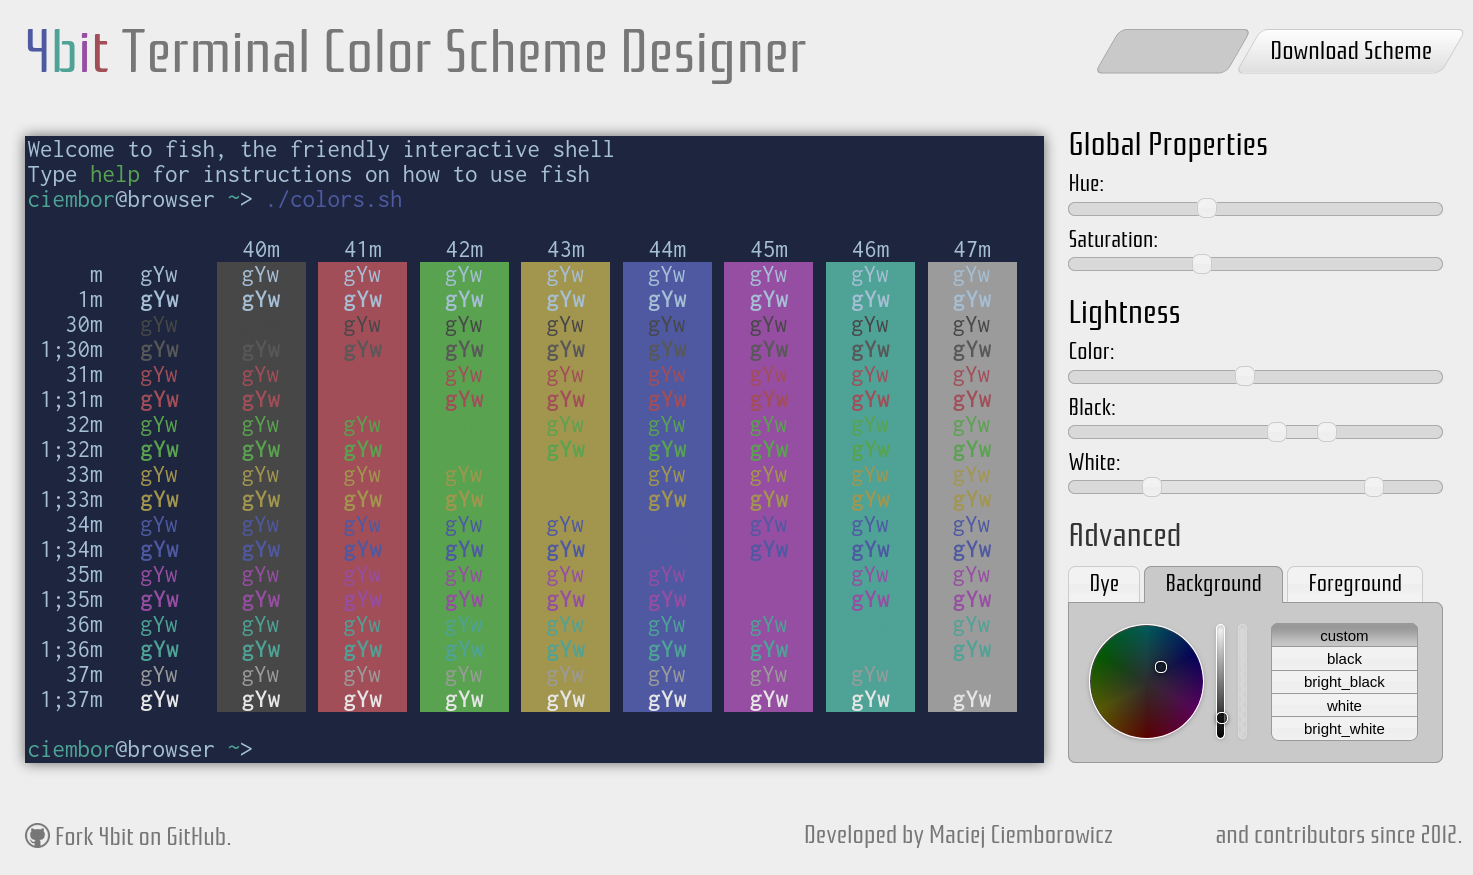
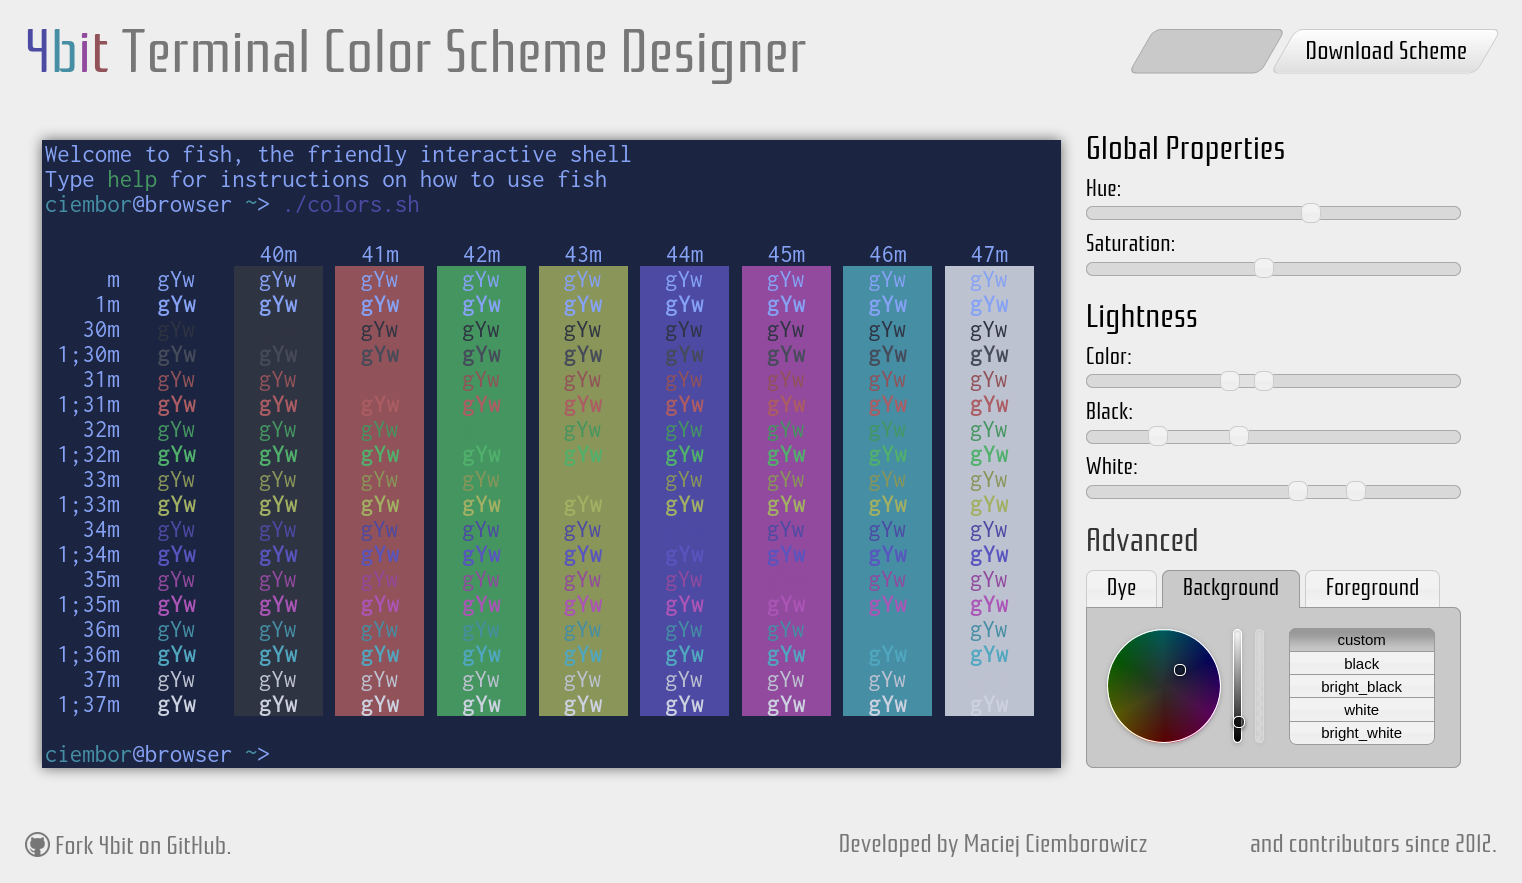
Update the vim/terminal colors post

diff --git a/content/post/same_colors_in_terminal_and_vim/index.md b/content/post/same_colors_in_terminal_and_vim/index.md
@@ -5,15 +5,16 @@ aliases = ['choosing_terminal_colors']
 tags = ["terminal", "vim", "color"]
 description = "How I chose readable colors for the terminal and configured Vim to use them."
 toc = true
+last_updated = "2024-02-12"
 +++
 
-In short, I've settled on a dark 4-bit terminal palette that is readable for the default and black background colors and use other techniques to workaround unreadable foreground/background combinations, which are mostly when two relatively light colors are put together. I do `:set t_Co=16` in my vimrc so `colortemplate`-based themes use the terminal palette instead of the absolute 8-bit color model, and use autocommands to modify Vim highlight groups that colorthemes often set to an unreadable combination of my colors.
+In short, I've settled on a dark 4-bit terminal palette that is readable for the default and black background colors and use other techniques to workaround unreadable foreground/background combinations, which are mostly when two relatively light colors are put together. I do `:set t_Co=16` in my vimrc so themes that check it use the terminal palette instead of the absolute 8-bit color model, and use autocommands to modify Vim highlight groups that colorschemes often set to an unreadable combination of my colors. And in the end I wrote a basic colorscheme to suit the terminal colors I chose.
 
 Warning, I just learned a lot of the stuff in this post, and it's difficult to make definitive statements about terminals due to their long history and multitude of implementations, so I bet I'm kinda wrong or at least not-technically-correct about a lot of this. Don't trust me too much. Also, I'm writing this from a perspective of using classic Vim on Linux.
 
 # Motivation
 
-My primary goal with terminal colors is for text to be readable, with a medium amount of contrast for the most common combinations of foreground and background colors. Years ago I remember often needing to switch Vim colorthemes or turn off syntax highlighting to avoid some highlight groups from being unreadable for certain filetypes or when I was doing a diff, which was a pain. And to save effort, if I come up with colors that are comfortable for me, I'd like to be able to use them in my most commonly used programs; at the very least in the shell and Vim.
+My primary goal with terminal colors is for text to be readable, with a medium amount of contrast for the most common combinations of foreground and background colors. Years ago I remember often needing to switch Vim colorschemes or turn off syntax highlighting to avoid some highlight groups from being unreadable for certain filetypes or when I was doing a diff, which was a pain. And to save effort, if I come up with colors that are comfortable for me, I'd like to be able to use them in my most commonly used programs; at the very least in the shell and Vim.
 
 # Choosing a color model
 
@@ -30,67 +31,68 @@ My primary goal with terminal colors is for text to be readable, with a medium a
 
 4-bit color is the obvious choice of color model when designing a custom palette, since it has been widely supported by terminals and terminal-based programs for a long time now, most terminals let you change the colors easily, and picking 18 colors doesn't take too long. With it we can pick a default foreground color, a default background color, 8 normal colors that can always be used for the foreground or backgorund, and 8 bold/bright colors whose use can sometimes be limited to when bold is selected for the foreground, but usually can be used whenever.
 
-To understand how the bold/bright colors are used, we need to get into the weeds a bit. The related ANSI/ECMA/ISO standards from the 1970s don't say much on how to implement SGR 1, the "bold" escape sequence, describing it as "BOLD OR INCREASED INTENSITY", so a common approach is for terminals to both use a bolder font as well as to change the foreground to the corresponding bright color, and in some terminals this is the only way to access the bright colors. Later terminals introduced the non-standard escape sequences SGR 90-97 and SGR 100-107 to use the bright colors independently of setting bold; xterm supports these, and for a long time xterm was both popular and the reference implementation of a terminal emulator for the X Window System, and so my impression is that most modern terminals try to be xterm-compatible, to some extent, and also support them. When I [queried terminfo](/post//choosing_terminal_colors/terms_have_bright_bg.sh) with `tput -T"${term:?}" setab`, the popular terminals that I could think of (and that also exist in terminfo) apparently support them too, including: konsole, kitty, alacritty, st, and VTE-based terminals like GNOME, xfce, guake, sakura, and terminator.
+To understand how the bold/bright colors are used, we need to get into the weeds a bit. The related ANSI/ECMA/ISO standards from the 1970s don't say much on how to implement SGR 1, the "bold" escape sequence, describing it as "BOLD OR INCREASED INTENSITY", so a common approach is for terminals to both use a bolder font as well as to change the foreground to the corresponding bright color, and in some terminals this is the only way to access the bright colors. Later terminals introduced the non-standard escape sequences SGR 90-97 and SGR 100-107 to use the bright colors independently of setting bold; xterm supports these, and for a long time xterm was both popular and the reference implementation of a terminal emulator for the X Window System, and so my impression is that most modern terminals try to be xterm-compatible, to some extent, and also support them. When I [queried terminfo](#appendix-query-if-bright-background-is-supported) with `tput -T"${term:?}" setab`, the popular terminals that I could think of (and that also exist in terminfo) apparently support them too, including: konsole, kitty, alacritty, st, and VTE-based terminals like GNOME, xfce, guake, sakura, and terminator.
 
 # Choosing colors
 
-There's a million ways to design a color scheme, but I went with [4bit Terminal Color Scheme Designer](https://ciembor.github.io/4bit/#), which I'll abbreviate as 4TCSD. It doesn't let you control everything, but it is great for quickly choosing some colors that are collectively cohesive and individually still have the intended meaning/symbolism: for example, errors are often displayed in red, so I want my red to be red enough to convey connotations of danger.
+There's a million ways to design a color scheme, but I went with [4bit Terminal Color Scheme Designer](https://ciembor.github.io/4bit/#), which I'll abbreviate as 4TCSD. It doesn't let you control everything, but it is great for quickly choosing some colors that are collectively cohesive and individually still have the intended meaning/symbolism: for example, errors are often displayed in red, so I want my red to be red enough to convey connotations of danger. I particularly recommend playing with the "Dye" tab, which adds a color cast to a desired subset of colors, and can have a big effect on how cohesive the theme looks.
 
-<img src="/post/choosing_terminal_colors/4bit_scheme.png" alt="4bit colorscheme" width="800" />
+<img src="/post/same_colors_in_terminal_and_vim/4bit_scheme.png" alt="4bit colorscheme" width="800" />
 
 There's also [terminal.sexy](https://terminal.sexy), which is very flexible, has lots of preview facilities, included themes, and export formats. terminal.sexy is good for tweaking individual colors, but note that while it shows bright colors in the preview templates it doesn't bold the font, so with an imported scheme from 4TCSD the bright colors probably won't look quite how you'd expect. Still, using the `/misc/rows` and `/misc/columns` templates to preview the colors can help stay true to the color names while also quickly checking readability for various foreground/background combinations:
 
-<img src="/post/choosing_terminal_colors/terminal_sexy_templates.png" alt="terminal.sexy templates for checking readability and color trueness" width="800" />
-
-Another thing you'll notice if you import a theme from 4TCSD into terminal.sexy is that all the bright colors are the same as the corresponding normal ones, except for black and white. This has worked out pretty well for me, presumably because I use builtin Vim themes, which rarely use bright colors without also setting bold, but I bet there's lots of themes that are designed with the assumption that the bright and normal colors will be different.
+<img src="/post/same_colors_in_terminal_and_vim/terminal_sexy_templates.png" alt="terminal.sexy templates for checking readability and color trueness" width="800" />
 
 It doesn't seem possible to have every foreground color be readable on every background color, so for a dark theme I tried to optimize having the foreground colors be readable on the default and black background colors while also keeping the constrast somewhere in the middle. If programs define funky color combos like yellow on green, I'm resigned to working around that as needed by choosing alternate program-specific themes or disabling color for them.
 
-I ended up with something like the image above. Unfortunately, 4TCSD doesn't support importing themes, so recreating something you've made before can be a challenge.
+I ended up with something like in the image of 4TCSD above. Unfortunately, 4TCSD doesn't support importing themes, so recreating something you've made before can be a challenge.
 
 # Configuring the terminal
 
-Changing the color palette is different for each terminal. My terminal's config format wasn't supported by 4TCSD so I munged one of the other formats into what I needed, but you could also export for xterm and import that as Xresources into [terminal.sexy](https://terminal.sexy), which supports different export formats than 4TCSD.
+Permanently changing the color palette is different for each terminal. My terminal's config format wasn't supported by 4TCSD and I couldn't find any other tools to convert between formats on the command line so I wrote a quick-and-dirty script in Python called [`conv4bit`](https://github.com/torbiak/conv4bit/blob/main/conv4bit.py). Alternatively, terminal.sexy supports different export formats than 4TCSD, so exporting for xterm from 4TCSD and importing that as Xresources in terminal.sexy might be helpful.
+
+A lot of terminals support using xterm-style OSC 4/10/11/12 escapes to change the 4-bit palette on-the-fly, which is especially convenient for trying out and editing themes. I had fun cloning the [Gogh](https://github.com/Gogh-Co/Gogh) repo, applying one of its themes with `conv4bit -ofmt osc "themes/${theme:?}" -`, and then attaching to an existing tmux session to preview the theme in a variety of situations.
 
 # Configuring Vim
 
-Back in Vim v7.0, the builtin colorthemes used color names from `:help cterm-colors` for color terminals, which are interpreted differently depending on `t_Co` (explained shortly), and 24-bit color for the GUI. And in Dec 2023 (Vim v9.1) the builtin themes were rewritten using the [colortemplate plugin](https://github.com/lifepillar/vim-colortemplate), and now each has specific support for 256, 16, 8, and 2 colors. The builtin themes still choose how many colors to use based on the `t_Co` option, which represents the max number of colors that the terminal supports (up to 256) and is retrieved from the terminfo db (see the `Co` capability in `terminfo(5)`) based on the value of the `TERM` environment variable, but you can override `t_Co` in your vimrc to get themes to use a lower-fidelity color model if desired. (True color, on the other hand, [is advertised by terminals in various ways](https://github.com/termstandard/colors#checking-for-colorterm) and can be enabled in `vim` with `:set termguicolors`.) So, the easiest way to get Vim to use the terminal's 4-bit palette is to do `:set t_Co=16` in your vimrc.
+Back in Vim v7.0, the builtin colorschemes used color names from `:help cterm-colors` for color terminals, which are interpreted differently depending on `t_Co` (explained shortly), and 24-bit color for the GUI. And in Dec 2023 (Vim v9.1) the builtin themes were rewritten using the [colortemplate plugin](https://github.com/lifepillar/vim-colortemplate), and now each has specific support for 256, 16, 8, and 2 colors. The builtin themes still choose how many colors to use based on the `t_Co` option, which represents the max number of colors that the terminal supports (up to 256) and is retrieved from the terminfo db (see the `Co` capability in `terminfo(5)`) based on the value of the `TERM` environment variable, but you can override `t_Co` in your vimrc to get themes to use a lower-fidelity color model if desired. (24-bit color, on the other hand, [is advertised by terminals in various ways](https://github.com/termstandard/colors#checking-for-colorterm) and can be enabled in `vim` with `:set termguicolors`.) So, the easiest way to get Vim to use the terminal's 4-bit palette is to do `:set t_Co=16` in your vimrc.
 
-When testing out Vim color themes I'd recommend using `:highlight` to check highlight groups to identify unreadable highlight groups early. The most important ones are on the first page, and most other highlight groups will link to them.
+When testing out Vim color themes I'd recommend using `:help highlight-groups` to identify unreadable groups early, and `:help group-name` to see the hierarchy of groups commonly used for programming language syntax. Note that most of the default highlight groups have a help entry under `hl-<name>` (eg `hl-DiffAdd`), which describes what it's for. Highlight groups for specific languages will mostly link to the ones defined by default. 
 
-There's a few highlight groups that I dislike in a lot of the builtin themes. First, I almost always want my default background color to be used, so I override `Normal` to have `ctermbg=NONE` for dark 4-bit backgrounds. In the snippet below, the `ColorScheme` event fires after any (`*`) colorscheme is loaded. See `:help colorscheme-override` for more info on overriding colorschemes, and you may need to read the docs for autocommands as well depending on your familiarity with them.
+Also, it's quite helpful to see what syntax/highlight group is under the cursor, and the following function can be bound to a key to do that. A simplified description is that it shows the matching and linked syntax groups. The effective highlight group could be different from what `SynGroup()` shows, though, such as when doing a diff, using visual mode, etc.  Note that syntax and highlight group names are kind of shared, and syntax group names can be used with the `:highlight` command to create a corresponding highlight group or link to one, like with `:hi link pythonStatement Statement`, which links the `pythonStatement` syntax group to the `Statement` highlight group.
 
-In my vimrc:
+    function! SynGroup()
+        let id = synID(line('.'), col('.'), 1)
+        echo synIDattr(id, 'name') . ' -> ' . synIDattr(synIDtrans(id), 'name')
+    endfunction
 
+There's a few highlight groups that I dislike in a lot of the builtin themes. I almost always want my default background color to be used, so I override `Normal` to have `ctermbg=NONE` when 4-bit color is being used. It can be tricky to get the search-related groups emphasized enough while also being readable, and striking the right balance really depends on what your terminal colors are. And for diff, putting red/green/yellow on black for removed/added/changed seems to work well compared to using more colorful combinations, assuming black is easily distinguished from the default background color. In the snippet below, the `ColorScheme` event fires after any (`*`) colorscheme is loaded. See `:help colorscheme-override` for more info on overriding colorschemes, and you may need to read the docs for autocommands as well depending on your familiarity with them. With Vim9 script you can put multiple autocommands in curly braces, but I like to keep my vimrc compatible with somewhat older Vim versions too, so I'm defining a function instead. In my vimrc:
+
+    function ModColorScheme()
+        " Customize colorscheme when using 4-bit color.
+        if str2nr(&t_Co) == 16
+            hi Normal ctermfg=NONE ctermbg=NONE
+
+            hi Visual ctermfg=Black ctermbg=Cyan cterm=NONE
+            hi Search ctermfg=Red ctermbg=Black cterm=bold
+            hi IncSearch ctermfg=White ctermbg=DarkRed cterm=bold
+
+            hi DiffAdd ctermfg=DarkGreen ctermbg=Black cterm=NONE
+            hi DiffChange ctermfg=DarkYellow ctermbg=Black cterm=NONE
+            hi DiffDelete ctermfg=DarkRed ctermbg=Black cterm=NONE
+            hi DiffText ctermfg=Black ctermbg=DarkYellow cterm=bold
+        endif
+    endfunction
     augroup color_mods
         au!
-        " Use the default background color for dark 4-bit schemes.
-        au ColorScheme * {
-            if str2nr(&t_Co) == 16 and &background ==# 'dark'
-                hi Normal ctermbg=NONE
-            endif
-        }
-        ...
+        au ColorScheme * call ModColorScheme()
     augroup END
 
-One downside to using terminal colors is that themes on the opposite side of the light/dark spectrum probably won't work well . My terminal colors don't work well with light colorschemes, so if did want to use a light theme I'd either `:set t_Co=256` or choose a light set of terminal colors.
+For diffs this results in:
 
-Second, I find the diff highlight groups to be unreadable for a lot of themes. A quick way to mitigate this is to set `:syntax off`, and depending on how busy the syntax highlighting is for changed lines that might be necessary, but I've been able to avoid doing so lately by overriding the relevant highlight groups, using a black background for `DiffChange` instead of something more colorful:
+![diff example](/post/same_colors_in_terminal_and_vim/diff.png)
 
-    augroup color_mods
-        au!
-
-        ...
-
-        au ColorScheme * hi DiffAdd ctermfg=DarkGreen ctermbg=Black
-        au ColorScheme * hi DiffChange ctermfg=DarkYellow ctermbg=Black
-        au ColorScheme * hi DiffDelete ctermfg=DarkRed ctermbg=Black
-        au ColorScheme * hi DiffText ctermfg=DarkYellow ctermbg=Blue
-    augroup END
-
-Resulting in something like this:
-
-![diff example](/post/choosing_terminal_colors/diff.png)
+One downside to using terminal colors is that themes on the opposite side of the light/dark spectrum probably won't work well . My terminal colors don't work well with light colorschemes, so if did want to use a light theme I'd either use 8 or 24-bit color or choose a light set of terminal colors.
 
 ## Vim's cterm-colors
 
@@ -118,7 +120,7 @@ Basically, `DarkRed` maps to ANSI red (1), while `LightRed` and `Red` map to ANS
 
 Clearly the number 9 doesn't match the ANSI-style SGR escape sequence to set the foreground to bright red, which is SGR 91. 9 will get translated to the appropriate escape sequence for the terminal during display, likely by [ncurses](https://github.com/mirror/ncurses/blob/master/ncurses/tinfo/lib_tparm.c) in concert with terminfo. For example, the terminfo `setaf` or "Set ANSI Foreground" capability gives a recipe in a simple stack-based programming language (described in `terminfo(5)`) to translate the color number to the right escape sequence for the current terminal, and the `tput` program that comes with ncurses can interpret that recipe.
 
-tput_demo.sh:
+`tput_demo.sh`:
 
     #!/bin/bash
     set -eu
@@ -132,9 +134,71 @@ tput_demo.sh:
 
 And in a terminal with different colors defined for red and bright red:
 
-![tput demo](/post/choosing_terminal_colors/tput_demo.png)
+![tput demo](/post/same_colors_in_terminal_and_vim/tput_demo.png)
+
+# Writing a Vim colorscheme
+
+I've been pretty happy using the `pablo` or `default` builtin colorschemes along with my set of terminal colors since 2016, but after writing the first version of this post and learning more about how colors and themes work in Vim, I started overriding more and more highlight groups that I wasn't totally happy with until it was obvious that I should just write my own theme. For people writing configurable themes with light and dark variants for multiple color models and both Vim and Neovim it makes sense to script the theme generation, but since I just wanted a 4-bit dark theme for Vim and the palette is already set, I didn't need any indirection and simply modified a list of `:highlight` commands  based on the `default` scheme.
+
+I used [colortemplate](https://github.com/lifepillar/vim-colortemplate) to generate a clone of the `default` theme using its [default_clone.colortemplate](https://github.com/lifepillar/vim-colortemplate/blob/master/templates/default_clone.colortemplate) and then removed almost everything except the header and 4-bit `if s:t_Co >= 16` section, but you could also just take the 4-bit section from any other builtin theme in Vim v9.1+, since they're all generated with colortemplate. Prior to v9.1 some of the builtin themes don't override all of the groups that `default` defines, so they're less useful as templates.
+
+I ended up with [forbit.vim](/post/same_colors_in_terminal_and_vim/forbit.vim), which starts like this:
+
+    <snip header>
+
+    set background=dark
+    hi clear
+    let g:colors_name = 'forbit'
+
+    hi Normal ctermfg=NONE ctermbg=NONE cterm=NONE
+    hi Comment ctermfg=lightblue ctermbg=NONE cterm=NONE
+    hi Constant ctermfg=darkmagenta ctermbg=NONE cterm=NONE
+    <continues...>
+
+To apply a colorscheme they just get sourced, so you could put it anywhere, but Vim looks for colorschemes in a few locations by default, including `~/.vim/colors`, so after putting it there I could simply run `:colorscheme forbit`.
+
+forbit doesn't pass the `$VIMRUNTIME/colors/tools/check_colors.vim` script, which is recommended for colorschemes that are intended to be shared, but it's good enough for my purposes. The point is to make it easy for me to customize colors as needed, which I wish I had started doing earlier.
 
 # See also
 
-- [Consistent terminal colors with 16-ANSI-color Vim themes](https://jeffkreeftmeijer.com/vim-16-color/) 
-discusses a different approach: instead of setting `t_Co`, Jeff wrote a colortheme that uses 4-bit color numbers directly and redefines all the highlight groups that are defined by default. Vim maps the `cterm-colors` names to numbers based on `t_Co`, and the default colortheme is specified in terms of color names, so if `t_Co == 256` then some of the highlight groups will start out with colors in the 8-bit space from 16-255. I think there could be a small downside to this approach in that non-ANSI terminals won't display the colors in the theme as intended, due to the different number-to-color mapping.
+- [Consistent terminal colors with 16-ANSI-color Vim themes](https://jeffkreeftmeijer.com/vim-16-color/)
+discusses a different approach: instead of setting `t_Co`, Jeff wrote a colorscheme that uses 4-bit color numbers directly and redefines all the highlight groups that are defined by default. Vim maps the `cterm-colors` names to numbers based on `t_Co`, and the default colorscheme is specified in terms of color names, so if `t_Co == 256` then some of the highlight groups will start out with colors in the 8-bit space from 16-255. I think there could be a small downside to this approach in that non-ANSI terminals won't display the colors in the theme as intended, due to the different number-to-color mapping.
+- [Gogh](https://github.com/Gogh-Co/Gogh) has a bunch of 4-bit themes specified in YAML/JSON and includes scripts to install them for various terminals.
+
+# Appendix: query if bright background is supported
+
+    #!/bin/bash
+    set -euo pipefail
+
+    terms=(
+        terminator
+        alacritty
+        konsole-256color
+        gnome-256color
+        kitty
+        st-256color
+        xterm-256color
+        vte-256color
+    )
+    for t in "${terms[@]}"; do
+        setab=$(tput -T"$t" setab) || continue
+        # Look for the "then" (%t) part of a conditional which does:
+        # - 10: print "10"
+        # - %p1: push param1 on the stack
+        # - %{8}: push a literal 8 on the stack
+        # - %-: pop the top two values and push their difference
+        # - %d: pop a value and print it as a int
+        [[ "$setab" = *'%t10%p1%{8}%-%d'* ]] && bright_bg=yes || bright_bg=no
+        echo "$t $bright_bg"
+    done
+
+# Addendum: changelog
+
+## 2024-02-12
+
+- Remove paragraph about 4TCSD themes having the same color for the normal and bright variants; somehow I didn't notice my color lightness sliders were overlapping. Update the 4TCSD screenshot, too.
+- Update vimrc snippets to avoid Vim9 script for now.
+- Mention better ways to check highlight groups: `:help group-name` and `:help highlight-groups`.
+- Add section on writing my own Vim colorscheme.
+- Mention `conv4bit`, a script to convert between 4-bit theme formats.
+- Move the terminfo querying script into the appendix instead of linking to the file.
